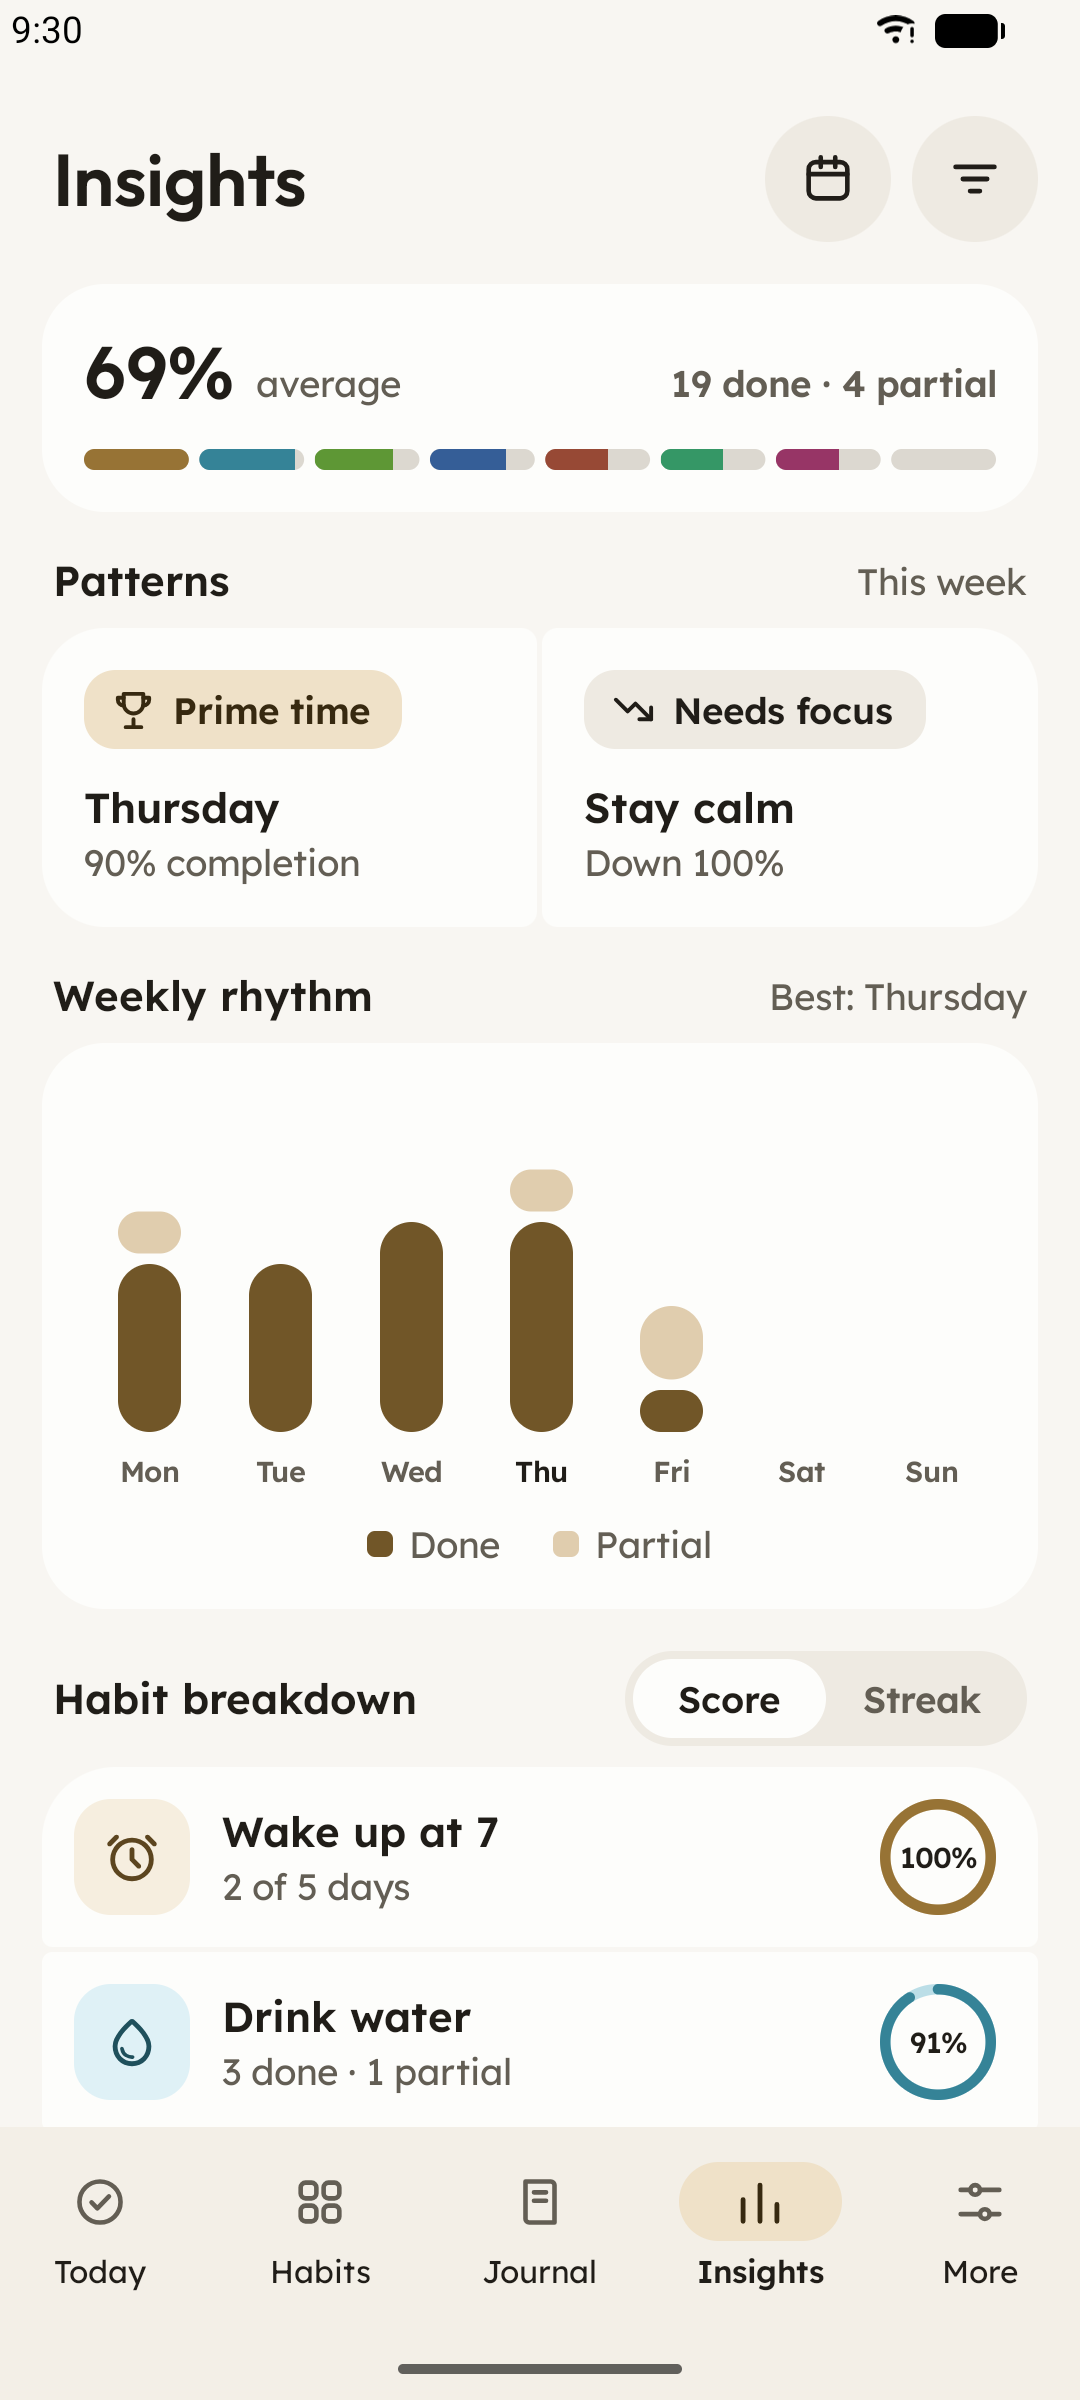
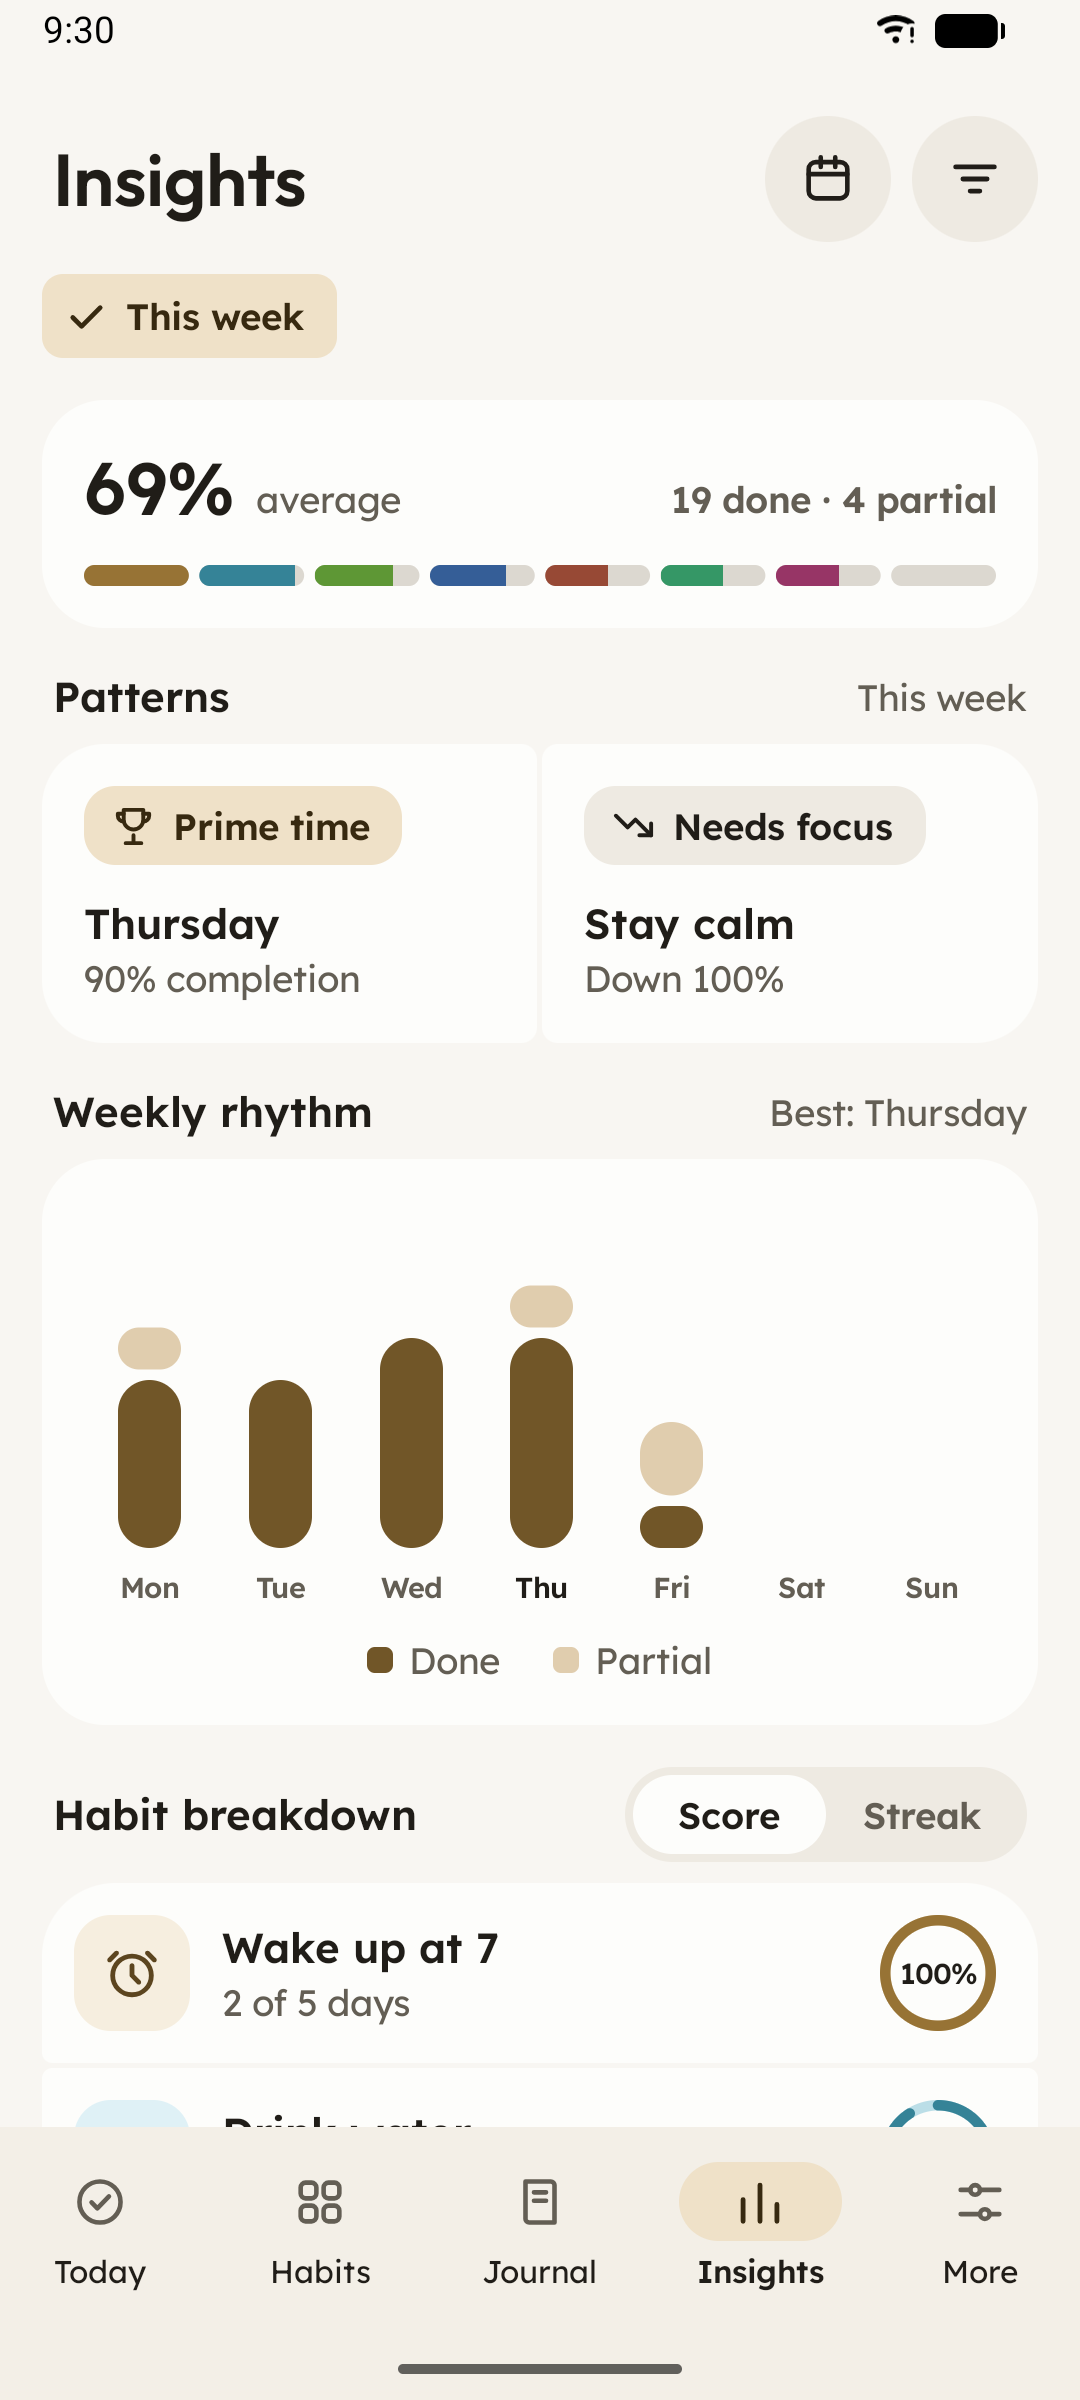
Insights shows the default range as a selected chip; Journal names on one line
- Insights: "✓ This week" is always in the chip row (tap opens the date sheet);
  a picked range replaces it with its ✕, the habit chip follows.
- Journal: a long habit name ends in "…" like on every other card.
- README: Insights and date range screenshots retaken.

Checks: smoke suite 29/29.

diff --git a/app/src/main/java/app/sprout/habits/ui/insights/InsightsScreen.kt b/app/src/main/java/app/sprout/habits/ui/insights/InsightsScreen.kt
@@ -9,6 +9,7 @@ import androidx.compose.foundation.layout.RowScope
 import androidx.compose.ui.geometry.CornerRadius
 import androidx.compose.ui.unit.LayoutDirection
 import app.sprout.habits.ui.components.CustomRangeChip
+import app.sprout.habits.ui.components.DefaultRangeChip
 import app.sprout.habits.ui.theme.SproutType
 import androidx.compose.foundation.Canvas
 import androidx.compose.foundation.background
@@ -96,27 +97,27 @@ fun InsightsScreen(viewModel: InsightsViewModel, weekStart: java.time.DayOfWeek,
                 HeaderIconButton(R.drawable.ic_calendar, stringResource(R.string.change_date_range), active = !ui.thisWeek) { pickingRange = true }
                 HeaderIconButton(R.drawable.ic_filter, stringResource(R.string.filter_by_habit), active = ui.filter.isNotEmpty()) { filtering = true }
             }
-            // No preset ranges: the row only shows the filters that are on, each with its ✕.
-            if (!ui.thisWeek || ui.filter.isNotEmpty()) {
-                FilterChipRow(Modifier.padding(top = 12.dp)) {
-                    if (!ui.thisWeek) {
-                        CustomRangeChip(
-                            label = ui.rangeLabel,
-                            openLabel = stringResource(R.string.change_date_range),
-                            clearLabel = stringResource(R.string.clear_date_filter),
-                            onOpen = { pickingRange = true },
-                            onClear = viewModel::clearRange,
-                        )
-                    }
-                    if (ui.filter.isNotEmpty()) {
-                        HabitFilterChip(
-                            selected = ui.options.filter { it.habitId in ui.filter },
-                            label = pluralStringResource(R.plurals.habit_count, ui.filter.size, ui.filter.size),
-                            removeLabel = stringResource(R.string.remove_habit_filter),
-                            onOpen = { filtering = true },
-                            onClear = { viewModel.setFilter(emptySet()) },
-                        )
-                    }
+            // The range is always shown: "✓ This week" by default, or the picked range with its ✕.
+            FilterChipRow(Modifier.padding(top = 12.dp)) {
+                if (ui.thisWeek) {
+                    DefaultRangeChip(ui.rangeLabel, stringResource(R.string.change_date_range)) { pickingRange = true }
+                } else {
+                    CustomRangeChip(
+                        label = ui.rangeLabel,
+                        openLabel = stringResource(R.string.change_date_range),
+                        clearLabel = stringResource(R.string.clear_date_filter),
+                        onOpen = { pickingRange = true },
+                        onClear = viewModel::clearRange,
+                    )
+                }
+                if (ui.filter.isNotEmpty()) {
+                    HabitFilterChip(
+                        selected = ui.options.filter { it.habitId in ui.filter },
+                        label = pluralStringResource(R.plurals.habit_count, ui.filter.size, ui.filter.size),
+                        removeLabel = stringResource(R.string.remove_habit_filter),
+                        onOpen = { filtering = true },
+                        onClear = { viewModel.setFilter(emptySet()) },
+                    )
                 }
             }
         }

diff --git a/app/src/main/java/app/sprout/habits/ui/components/HabitFilterSheet.kt b/app/src/main/java/app/sprout/habits/ui/components/HabitFilterSheet.kt
@@ -150,7 +150,7 @@ fun HeaderIconButton(
 }
 
 /**
- * The chips under a tab header, shown only while a filter is on: the picked range ([CustomRangeChip])
+ * The chips under a tab header: the range ([DefaultRangeChip] or a picked [CustomRangeChip]),
  * then the habit chip. The row scrolls sideways when it doesn't fit.
  */
 @Composable
@@ -161,6 +161,27 @@ fun FilterChipRow(modifier: Modifier = Modifier, content: @Composable RowScope.(
         verticalAlignment = Alignment.CenterVertically,
         content = content,
     )
+}
+
+/**
+ * The default range ("This week") shown as the selected chip: filled, with a check. Tapping it
+ * opens the date range sheet to pick another range.
+ */
+@Composable
+fun DefaultRangeChip(label: String, openLabel: String, onOpen: () -> Unit) {
+    val colors = MaterialTheme.colorScheme
+    Row(
+        Modifier
+            .heightIn(min = 32.dp)
+            .clip(RoundedCornerShape(8.dp))
+            .background(colors.secondaryContainer)
+            .clickable(onClickLabel = openLabel, role = Role.Button, onClick = onOpen)
+            .padding(start = 8.dp, end = 12.dp),
+        verticalAlignment = Alignment.CenterVertically,
+    ) {
+        Icon(painterResource(R.drawable.ic_check), contentDescription = null, tint = colors.onSecondaryContainer, modifier = Modifier.padding(end = 6.dp).size(18.dp))
+        Text(label, style = SproutType.label, color = colors.onSecondaryContainer, maxLines = 1)
+    }
 }
 
 /**

diff --git a/app/src/main/java/app/sprout/habits/ui/components/NoteCard.kt b/app/src/main/java/app/sprout/habits/ui/components/NoteCard.kt
@@ -160,8 +160,7 @@ fun NoteCard(
             }
             Column(Modifier.weight(1f).padding(start = if (showHabit) 12.dp else 0.dp), verticalArrangement = Arrangement.spacedBy(2.dp)) {
                 if (showHabit) {
-                    // Long names wrap rather than lose their end.
-                    Text(note.habitName, style = SproutType.cardTitle, color = colors.onSurface)
+                    Text(note.habitName, style = SproutType.cardTitle, color = colors.onSurface, maxLines = 1, overflow = TextOverflow.Ellipsis)
                 }
                 Row(verticalAlignment = Alignment.CenterVertically) {
                     DayMarkView(note.mark, hc, marks, Modifier.size(16.dp))

diff --git a/docs/FEATURES.md b/docs/FEATURES.md
@@ -34,7 +34,7 @@ Code: `ui/journal/`, `ui/note/`.
 
 ## Insights
 
-A summary for a range of dates: this week by default, or any range from the calendar button (shown as a chip under the title, with ✕ to go back to this week), for all habits or the ones you pick. It shows the average score with a bar per habit and the done and partial counts; a Patterns card with the weekday that goes best and the habit that dropped most against the range before; a bar per weekday (one per week for ranges over two weeks); and a row per habit with its days kept and a score ring, sorted by score or by streak (the ring then shows the streak within the chosen dates). Tapping a bar shows its numbers, and tapping a habit opens it. A past day with no entry counts as 0 in the score; only a day marked Skip is left out.
+A summary for a range of dates: this week by default (a selected "This week" chip under the title), or any range from the calendar button (it takes the chip's place, with ✕ to go back to this week), for all habits or the ones you pick. It shows the average score with a bar per habit and the done and partial counts; a Patterns card with the weekday that goes best and the habit that dropped most against the range before; a bar per weekday (one per week for ranges over two weeks); and a row per habit with its days kept and a score ring, sorted by score or by streak (the ring then shows the streak within the chosen dates). Tapping a bar shows its numbers, and tapping a habit opens it. A past day with no entry counts as 0 in the score; only a day marked Skip is left out.
 
 Code: `ui/insights/`.
 
